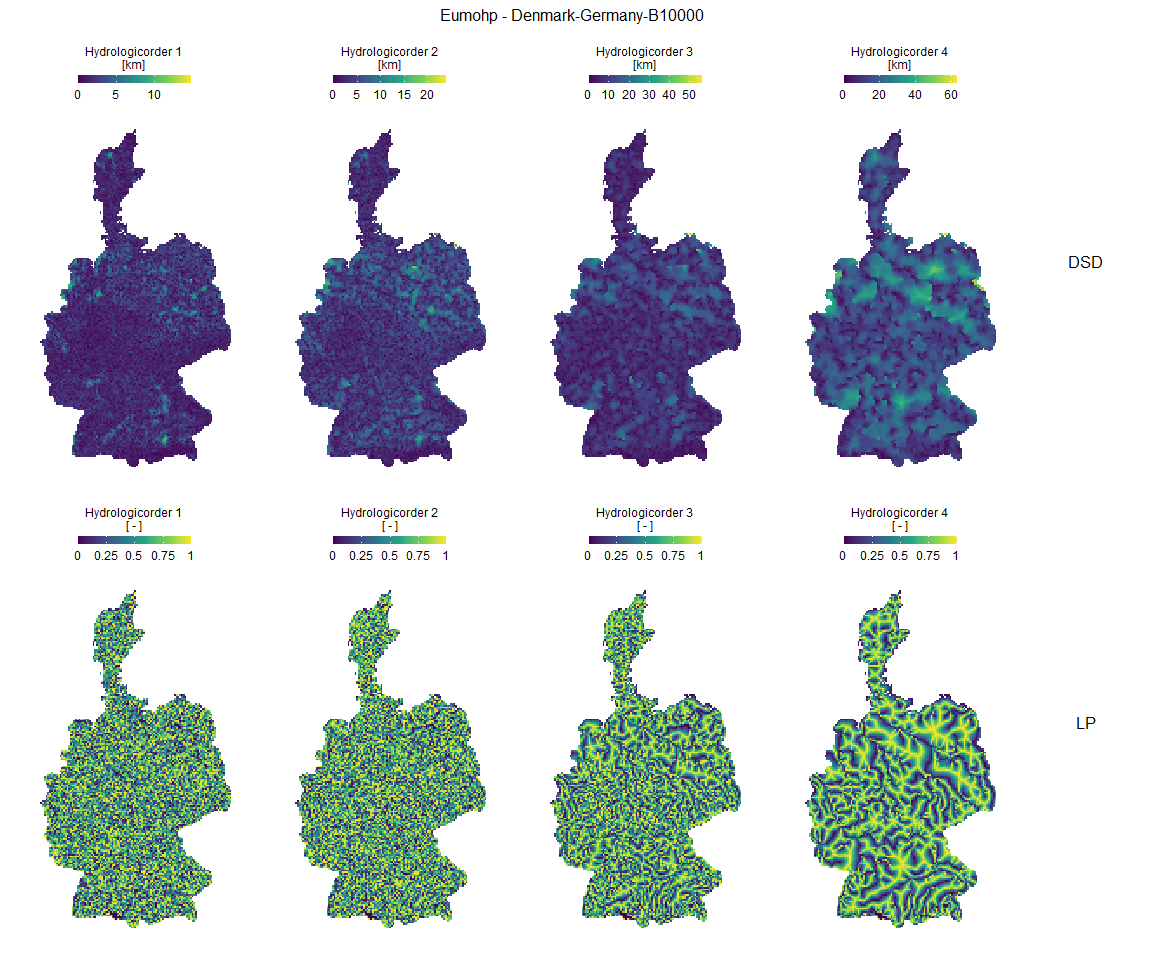
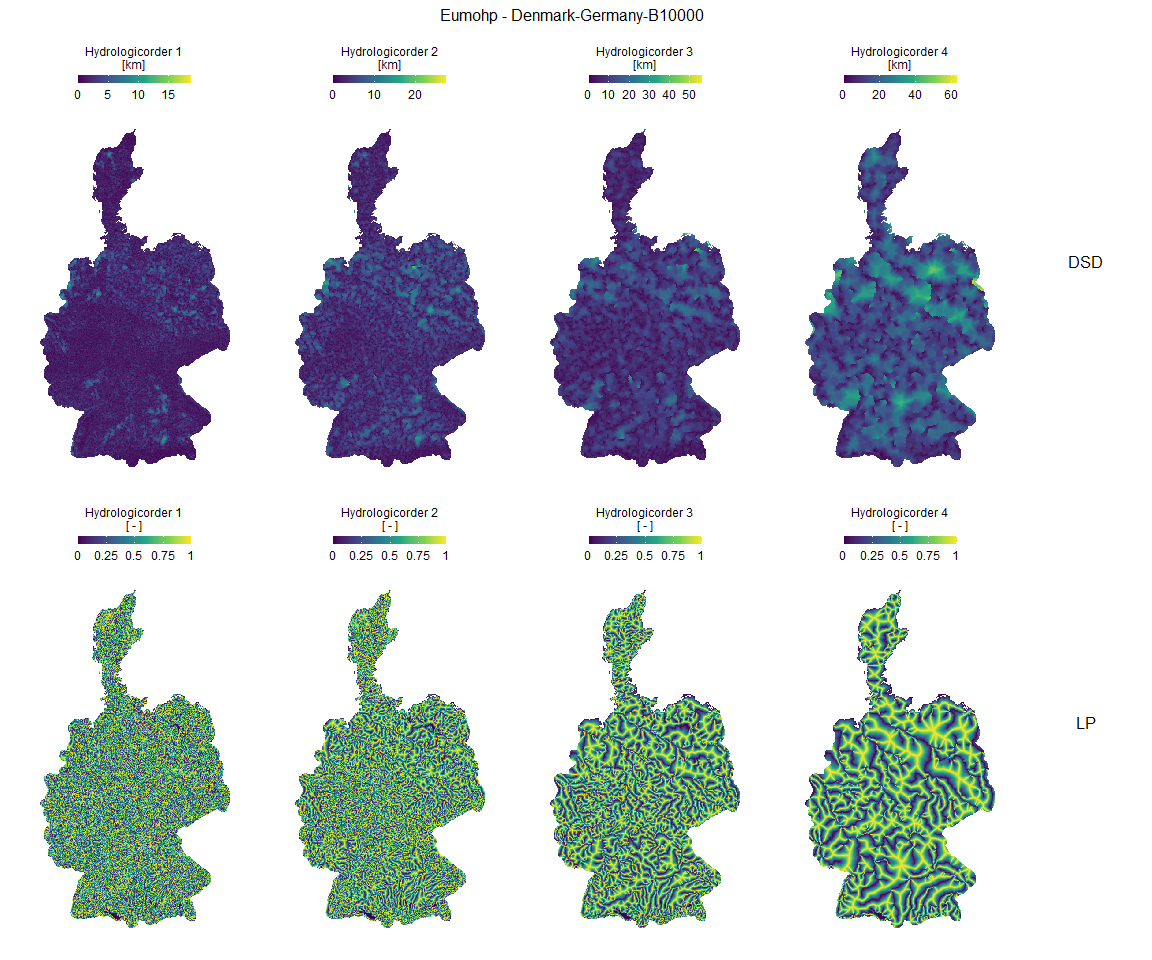
codecovr + readme badge added

diff --git a/README.md b/README.md
@@ -13,8 +13,7 @@ state and is being actively
 developed.](https://www.repostatus.org/badges/latest/active.svg)](https://www.repostatus.org/#active)
 [![License: MIT + file
 LICENSE](https://img.shields.io/badge/license-MIT%20+%20file%20LICENSE-blue.svg)](https://cran.r-project.org/web/licenses/MIT%20+%20file%20LICENSE)
-[![Codecov test
-coverage](https://codecov.io/gh/MxNl/eumohpclipr/branch/main/graph/badge.svg)](https://app.codecov.io/gh/MxNl/eumohpclipr?branch=main)
+[![codecov](https://codecov.io/gh/MxNl/eumohpclipr/branch/main/graph/badge.svg?token=YddhMy5Edd)](https://codecov.io/gh/MxNl/eumohpclipr)
 <!-- badges: end -->
 
 The goal of eumohpclipr is to provide users of the EU-MOHP data set with
@@ -147,15 +146,15 @@ You can plot the clipped and subsetted data with `eumohp_plot()`.
 
 ``` r
 eumohp_clipped_countries |> 
-  eumohp_plot(downsample = 200)
-#> Warning: Removed 10204 rows containing missing values (geom_raster).
-#> Removed 10204 rows containing missing values (geom_raster).
-#> Removed 10204 rows containing missing values (geom_raster).
-#> Removed 10204 rows containing missing values (geom_raster).
-#> Removed 10204 rows containing missing values (geom_raster).
-#> Removed 10204 rows containing missing values (geom_raster).
-#> Removed 10204 rows containing missing values (geom_raster).
-#> Removed 10204 rows containing missing values (geom_raster).
+  eumohp_plot(downsample = 50)
+#> Warning: Removed 157332 rows containing missing values (geom_raster).
+#> Removed 157332 rows containing missing values (geom_raster).
+#> Removed 157332 rows containing missing values (geom_raster).
+#> Removed 157332 rows containing missing values (geom_raster).
+#> Removed 157332 rows containing missing values (geom_raster).
+#> Removed 157332 rows containing missing values (geom_raster).
+#> Removed 157332 rows containing missing values (geom_raster).
+#> Removed 157332 rows containing missing values (geom_raster).
 ```
 
 <img src="man/figures/README-unnamed-chunk-9-1.png" width="100%" /> You
